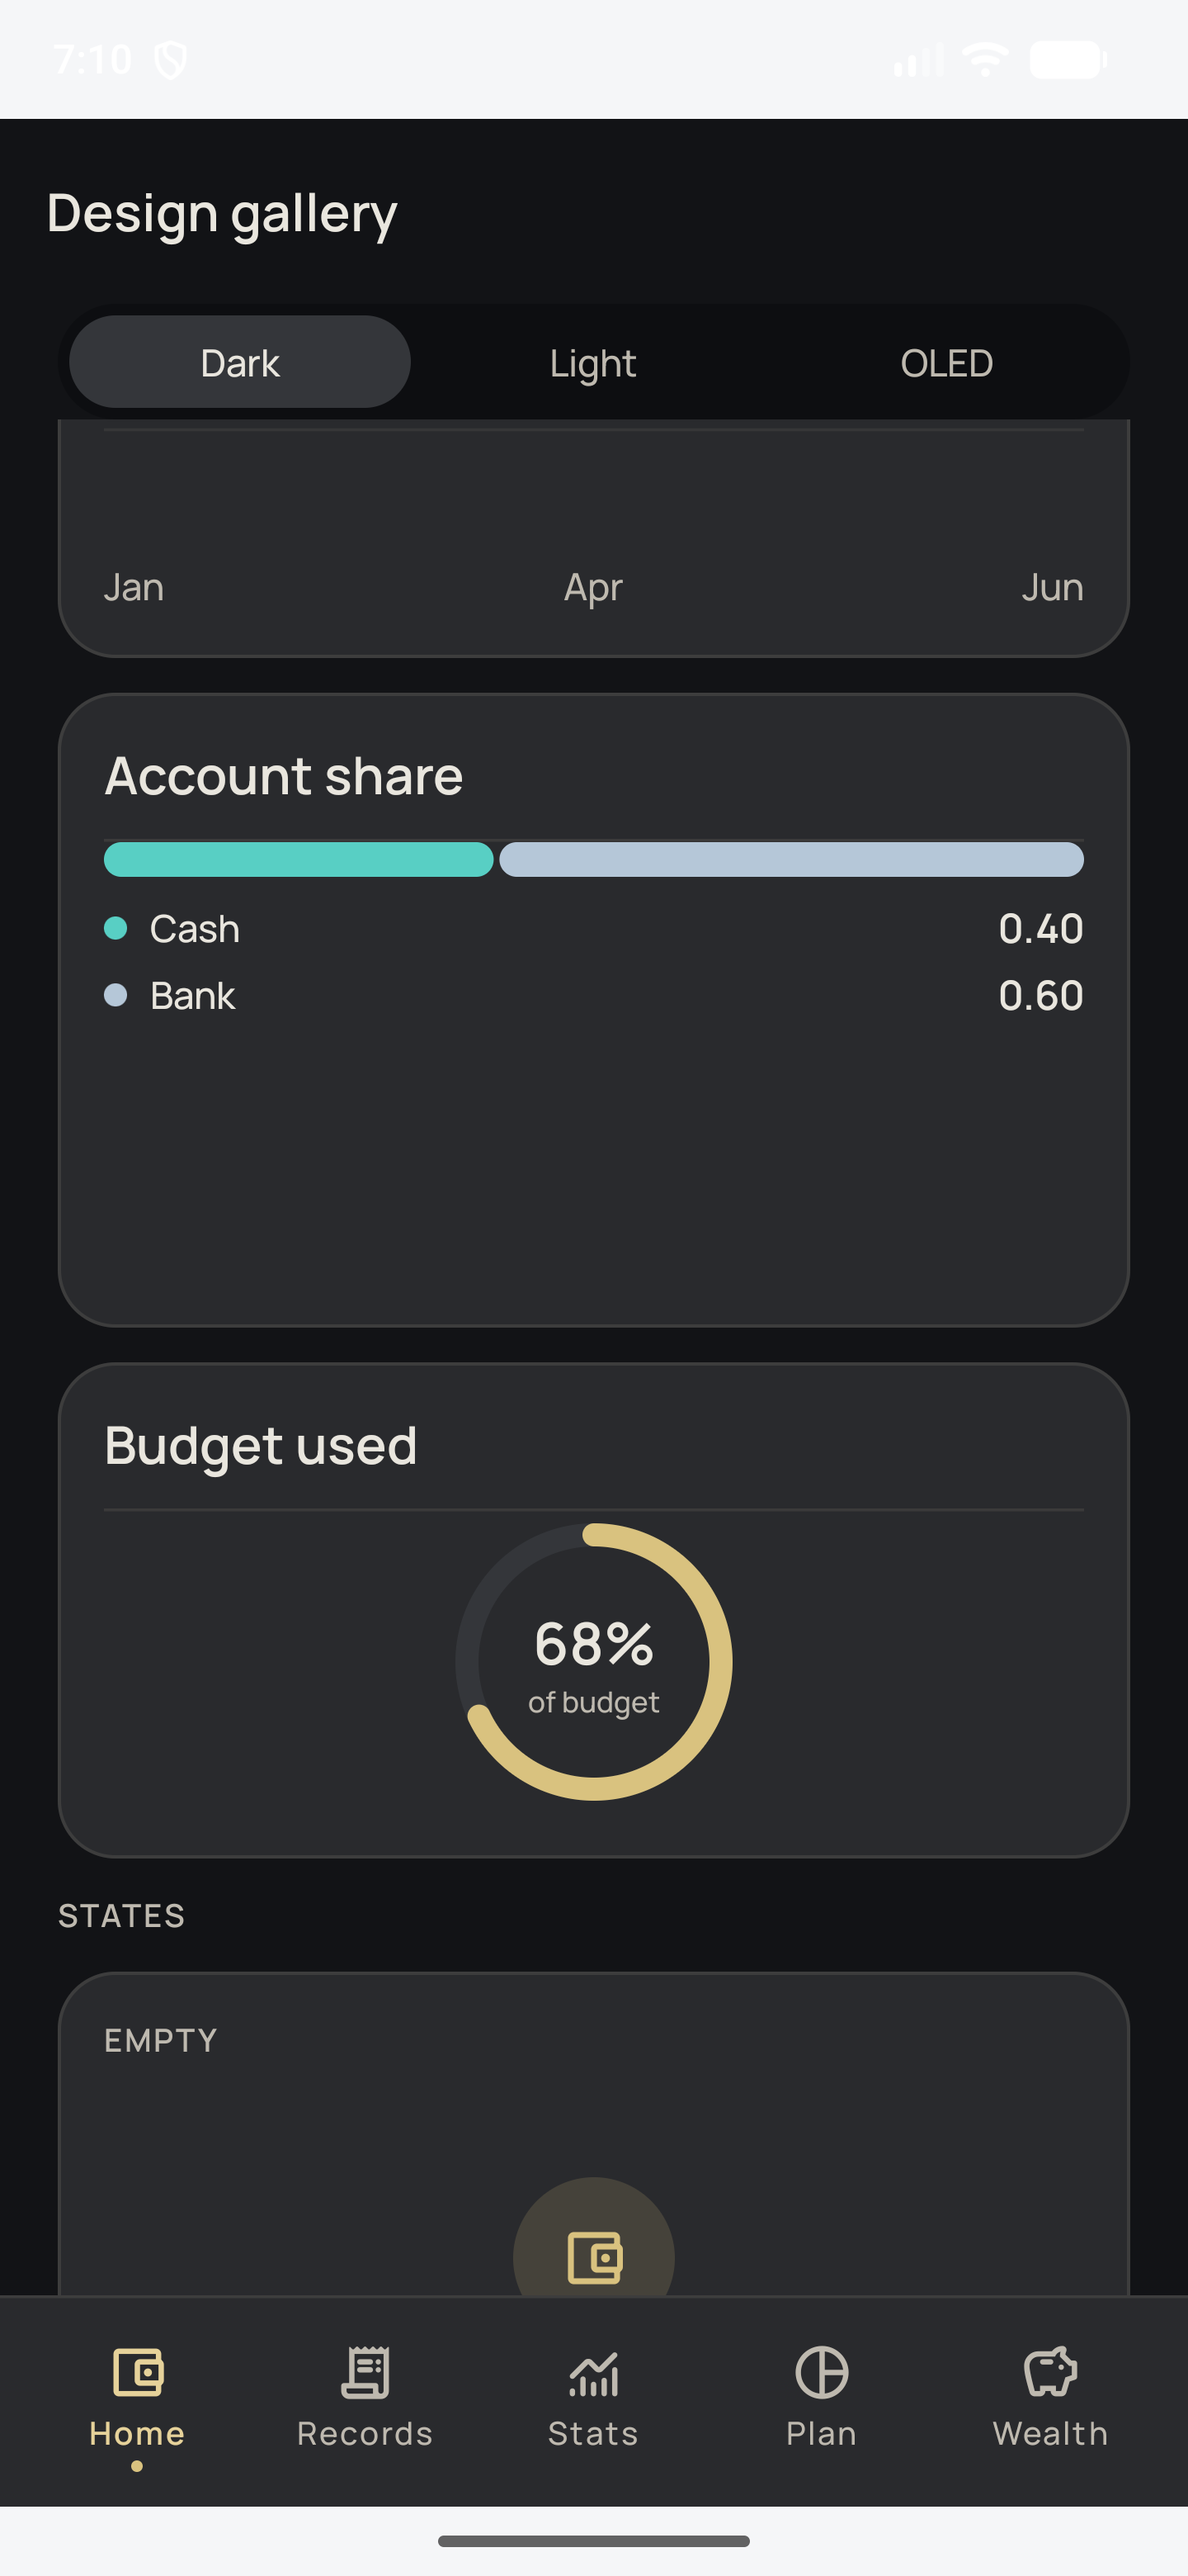
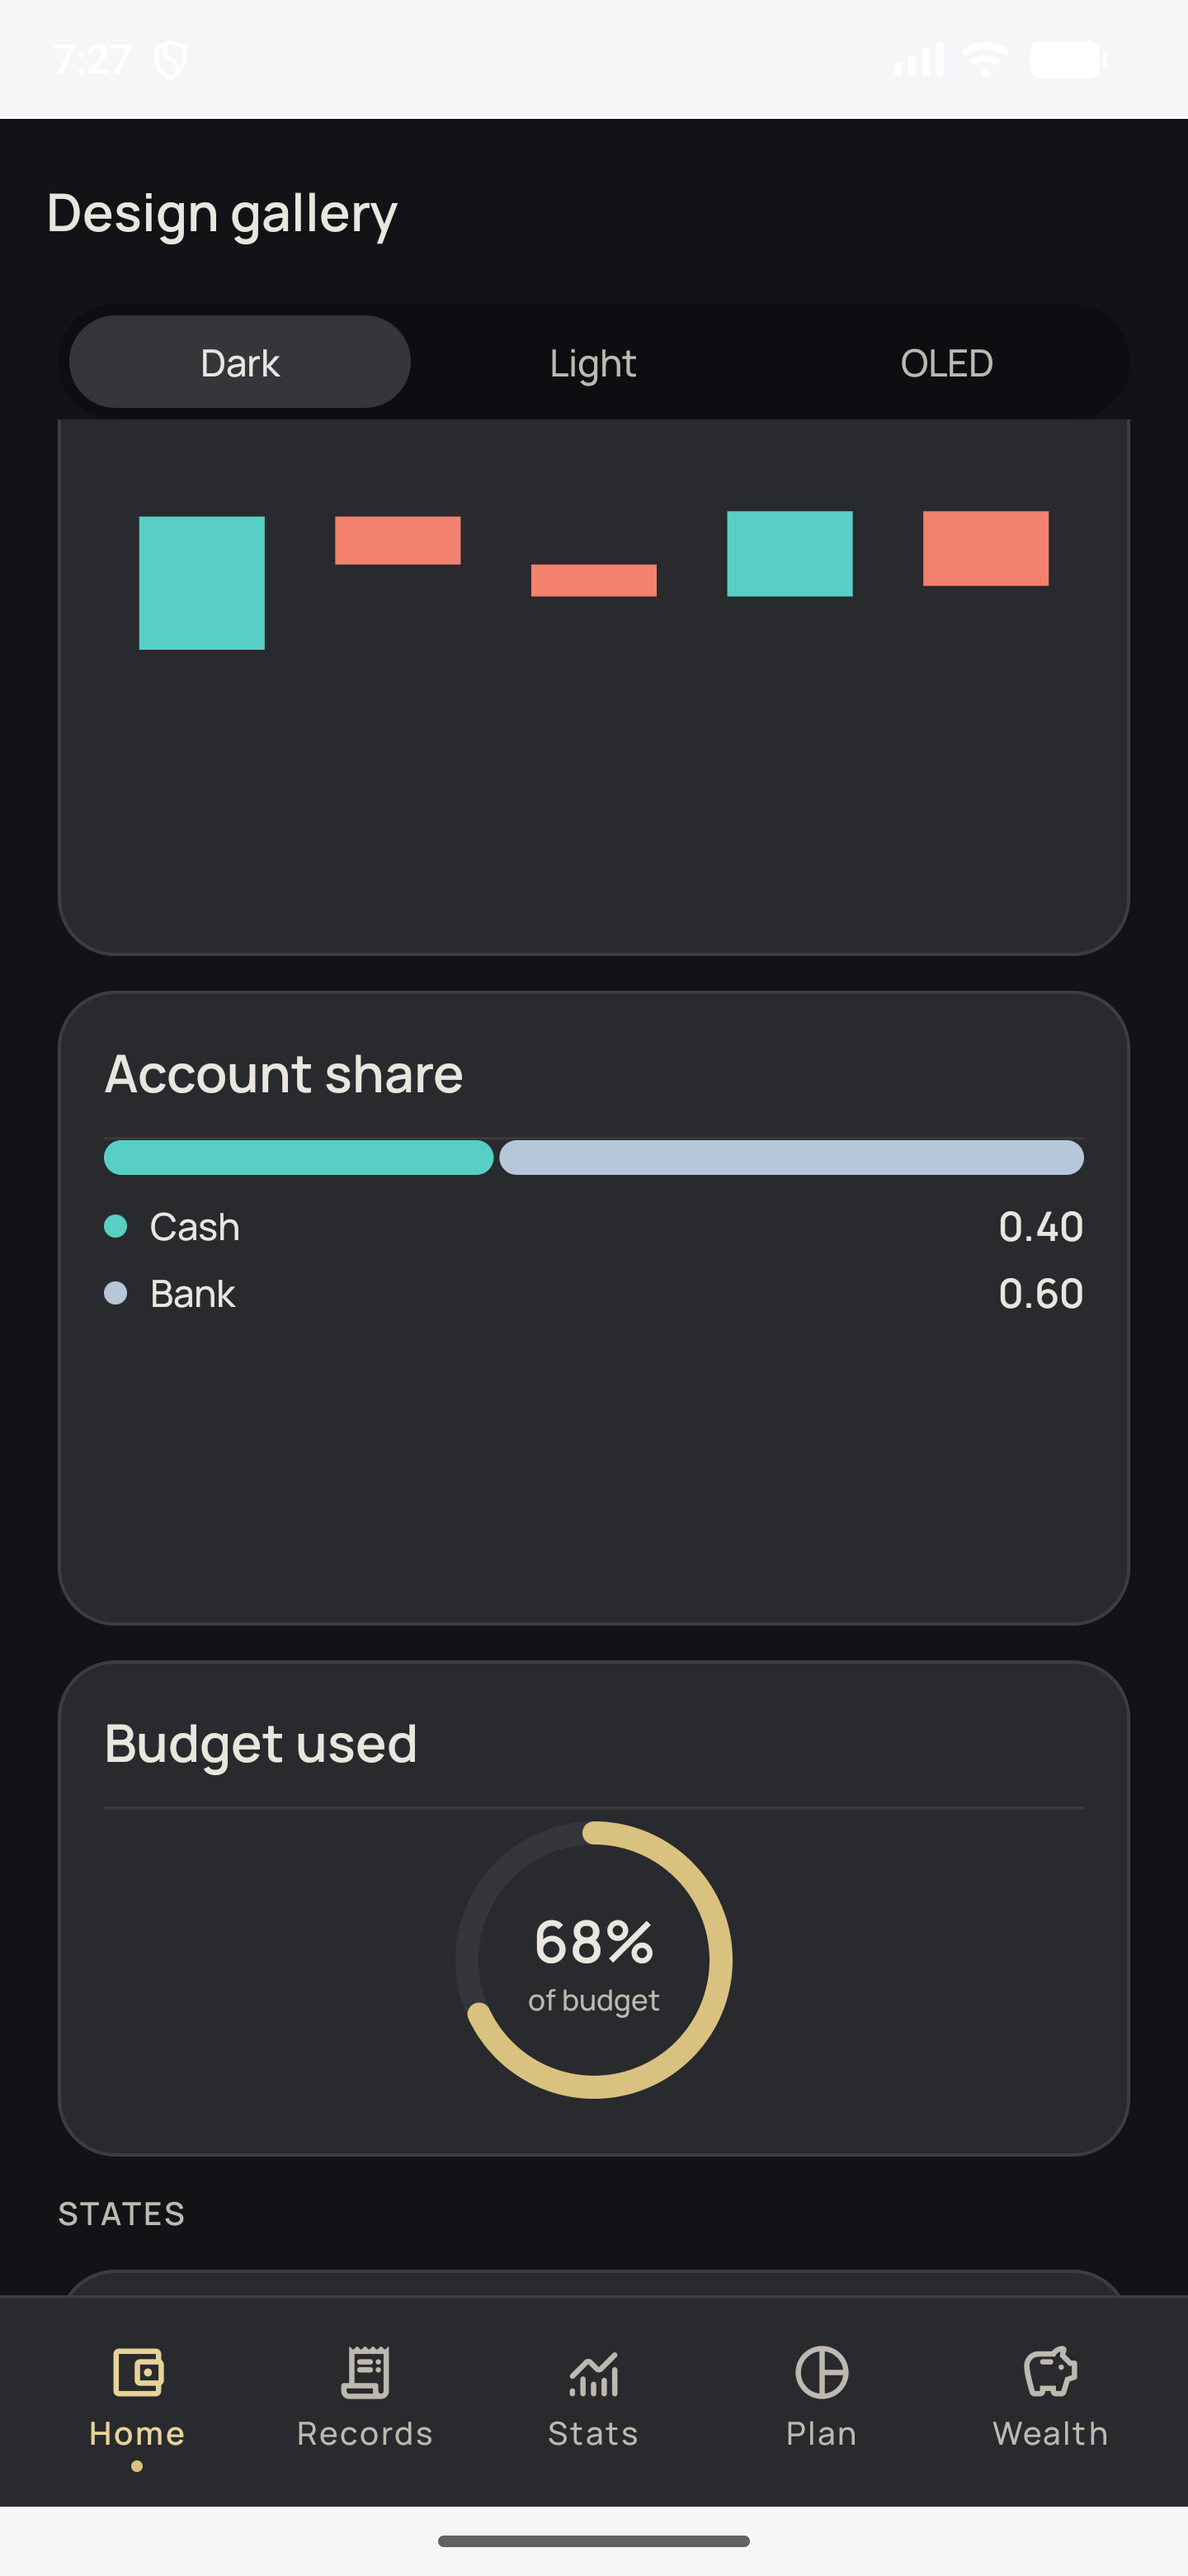
Hide axes from the monthly waterfall sample

diff --git a/app/src/debug/kotlin/app/mizan/ui/v2/DesignGallery.kt b/app/src/debug/kotlin/app/mizan/ui/v2/DesignGallery.kt
@@ -149,7 +149,12 @@ fun designGalleryEntry(modifier: Modifier = Modifier) {
                         }
                     }
                     item {
-                        MzChartCard("Monthly change", axisLabels = listOf("Jan", "Apr", "Jun")) { chartModifier ->
+                        MzChartCard(
+                            "Monthly change",
+                            axisLabels = listOf("Jan", "Apr", "Jun"),
+                            showGrid = false,
+                            showAxisLabels = false,
+                        ) { chartModifier ->
                             MzWaterfall(listOf(50, -18, -12, 32, -28), chartModifier)
                         }
                     }
